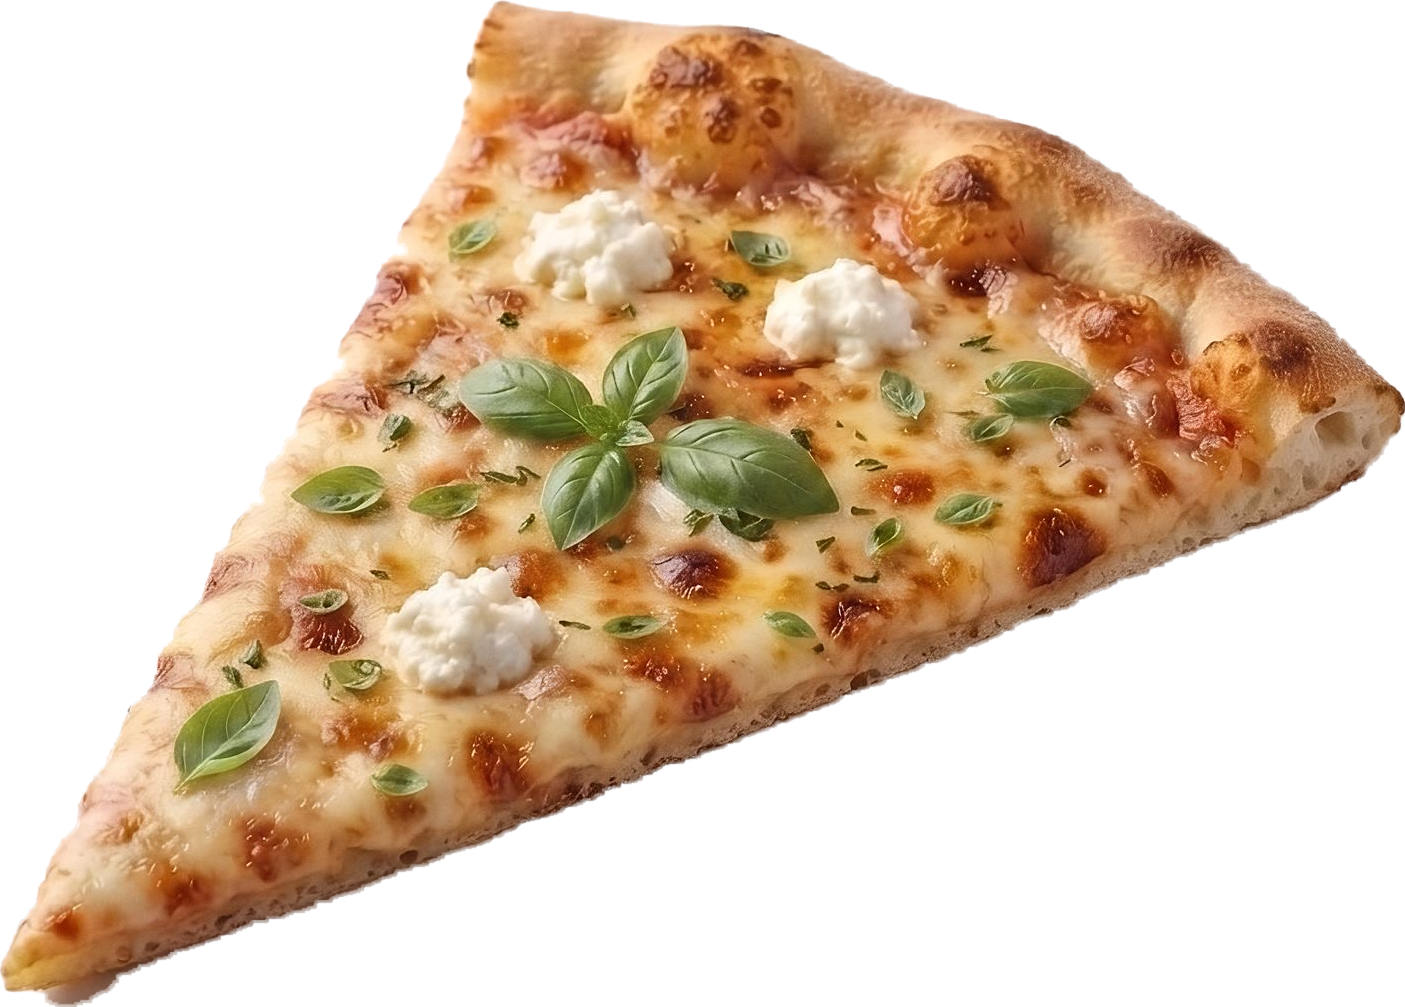
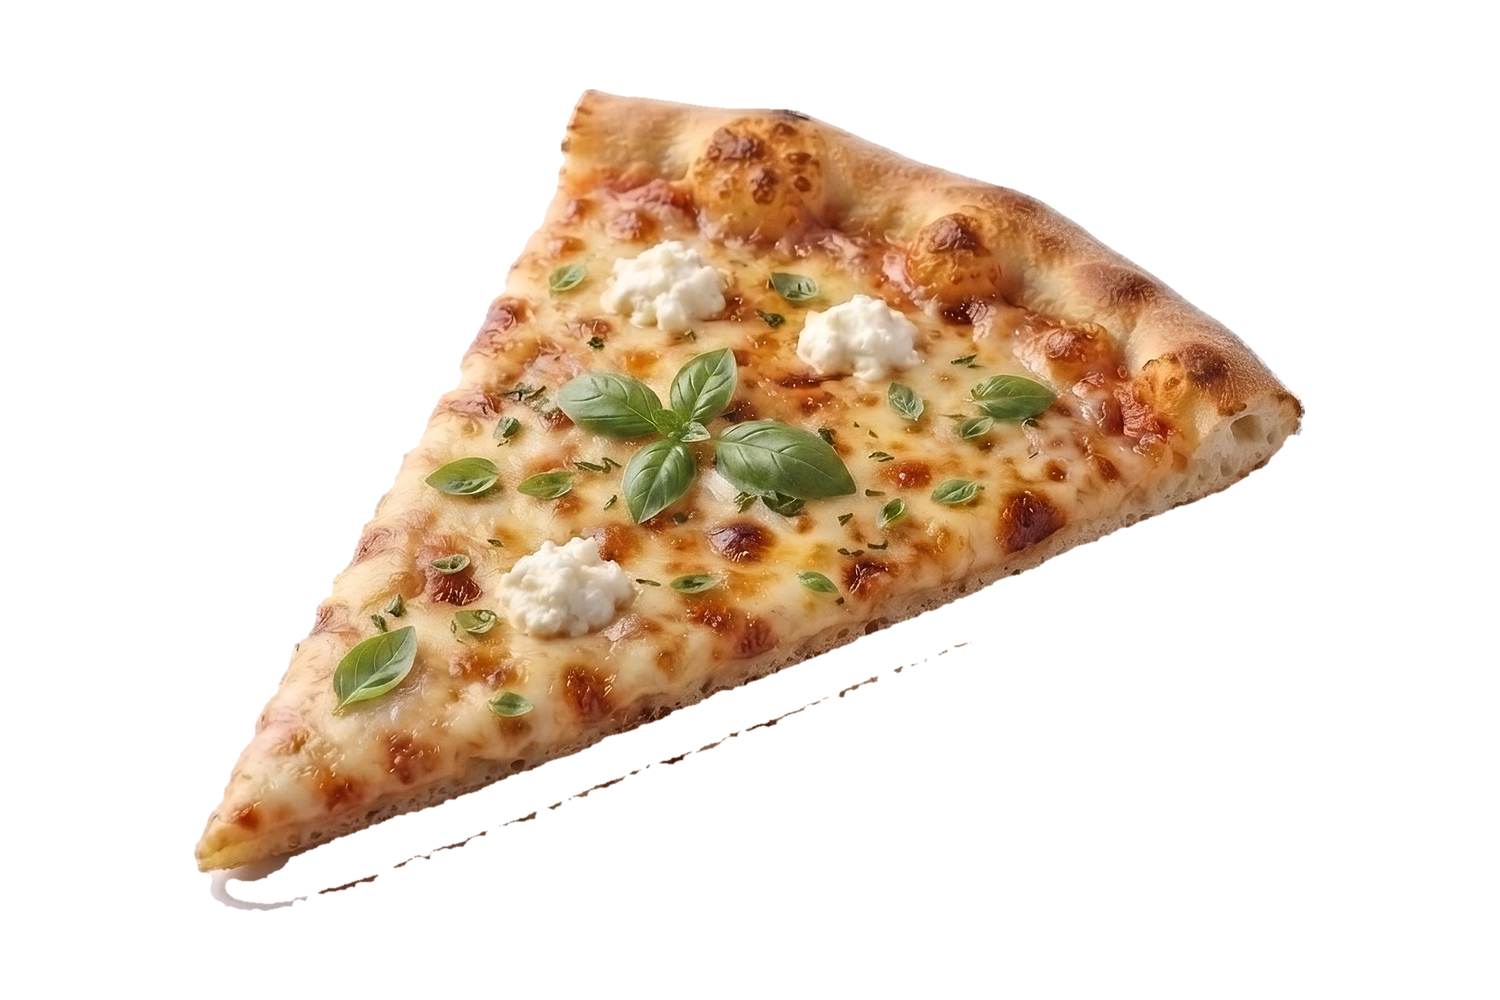
Stueckbilder neu freigestellt und vereinheitlicht
Die Stueckbilder wurden aus den Originalfotos neu aufgebaut, weil sie zuvor
unterschiedliche Seitenverhaeltnisse hatten (1,26 bis 1,60) und dadurch
unterschiedlich gross im Rahmen landeten. Die Sonderregel, die das ueber eine
Hoehenbegrenzung je Variante abfing, ist wieder entfernt — die
Einheitlichkeit liegt jetzt in den Dateien.

Freistellen: Der Weg ueber den Hintergrund scheiterte am Studioschatten. Er
ist neutral wie der Hintergrund, seine weiche Auslaufkante aber texturiert;
je nach Kriterium blieb er als grauer Saum stehen oder heller Kaese am
Slice-Rand wurde mit weggeschnitten. Deshalb wird jetzt die Pizza selbst
beschrieben statt der Hintergrund: sie ist entweder farbig (Kruste, Sauce,
Belag) oder hell UND texturiert (Kaese, Ricotta) — der Schatten ist beides
nicht. Gemessen liegt die lokale Standardabweichung des Hintergrunds bei 0,7,
die der Pizzaoberflaeche bei 15,6.

Kantenreinigung: Die Weichzeichnung der Maske machte Pixel ausserhalb der
Kontur halbtransparent, also Hintergrund und Schatten — daher der helle Saum.
Die weiche Kante sitzt jetzt auf echtem Pizzarand, und die Farbe der
Randpixel kommt aus sechs Pixel Tiefe, wo sicher Teig oder Belag liegt. Mit
der Farbe direkt vom Rand blieb der Saum bestehen: dort sind bereits
Mischpixel, gemessen 255,255,250. Kantensaettigung danach 39-61 statt 5-6,
Helligkeit 147-180 statt 251.

Einheitliche Leinwand: alle 20 auf 1500x1000, skaliert ueber die Flaeche der
[…]

diff --git a/js/main.js b/js/main.js
@@ -25,22 +25,17 @@ document.addEventListener("DOMContentLoaded", () => {
     detroit: initPizzaSelector({
       root: "pizzaSelector", prefix: "sel", data: MOTO_MENU, ratio: 0.62,
       startVariante: "whole",
-      /* maxHoehe: Anteil der Rahmenhoehe. 98 % ist der Normalfall — so fuellt
-         die ganze Pizza den Rahmen ueber die Breite. Fuer die Stuecke ist der
-         Wert so gewaehlt, dass ihre gerenderte Hoehe der ganzen Pizza
-         entspricht: 0.98 / 1.66 (Seitenverhaeltnis ganz) / 0.62 (Rahmen). */
       varianten: {
-        whole: { imgPrefix: "pizza-", ext: "png", maxHoehe: "98%", alt: "vollständige Detroit Style Pizza" },
-        slice: { imgPrefix: "slice-", ext: "png", maxHoehe: "95%", alt: "Detroit Style Pizza, ein Stück" },
+        whole: { imgPrefix: "pizza-", ext: "png", alt: "vollständige Detroit Style Pizza" },
+        slice: { imgPrefix: "slice-", ext: "png", alt: "Detroit Style Pizza, ein Stück" },
       },
     }),
     newyork: initPizzaSelector({
       root: "nySelector", prefix: "ny", data: MOTO_MENU, ratio: 0.72,
       startVariante: "whole",
-      /* 0.98 / 1.49 / 0.72 — dieselbe Rechnung mit den Werten dieses Karussells */
       varianten: {
-        whole: { imgPrefix: "pizza-ny-", ext: "png", maxHoehe: "98%", alt: "vollständige New York Style Pizza" },
-        slice: { imgPrefix: "slice-ny-", ext: "png", maxHoehe: "91%", alt: "New York Style Pizza, ein Stück" },
+        whole: { imgPrefix: "pizza-ny-", ext: "png", alt: "vollständige New York Style Pizza" },
+        slice: { imgPrefix: "slice-ny-", ext: "png", alt: "New York Style Pizza, ein Stück" },
       },
     }),
   };
@@ -160,15 +155,6 @@ function initPizzaSelector(cfg) {
      bleibt stehen. Das Rahmenverhaeltnis gehoert zum Karussell, nicht zur
      Variante, damit sich die Hoehe nie aendert. */
   let variante = cfg.varianten[cfg.startVariante];
-
-  /* Wie hoch ein Bild im Rahmen hoechstens werden darf. Die ganzen Pizzen
-     haben alle dasselbe Seitenverhaeltnis und fuellen den Rahmen ueber die
-     Breite; die Stueckbilder sind steiler und unterschiedlich geschnitten,
-     mit derselben Grenze wuerden sie hoeher ausfallen als eine ganze Pizza
-     und in die Nachbarn ragen. Der Wert je Variante deckelt genau das, ohne
-     etwas zu beschneiden oder zu verzerren — object-fit bleibt contain. */
-  const hoeheSetzen = () => root.style.setProperty("--bild-max-h", variante.maxHoehe);
-  hoeheSetzen();
 
   const bildPfad = (p) => `assets/images/${variante.imgPrefix}${p.id}.${variante.ext}`;
   const bildAlt = (p) => `${p.name} – ${variante.alt}`;
@@ -507,7 +493,6 @@ function initPizzaSelector(cfg) {
     setVariante(name) {
       if (!cfg.varianten[name] || cfg.varianten[name] === variante) return;
       variante = cfg.varianten[name];
-      hoeheSetzen();
       slideEls.forEach((el, trackIdx) => {
         const p = data[dataIndexOf(trackIdx)];
         const img = el.querySelector("img");

diff --git a/css/style.css b/css/style.css
@@ -936,9 +936,7 @@ body {
      stretch, just a small safety margin against the card edge. 98% rather
      than the old 92%: the margin only has to keep the drop-shadow off the
      card edge, and the reclaimed 6% goes straight into pizza size. */
-  /* die Hoehengrenze kommt je Variante aus js/main.js (--bild-max-h), damit
-     ein Stueck nie hoeher wird als eine ganze Pizza; 98 % ist der Rueckfall */
-  max-width: 98%; max-height: var(--bild-max-h, 98%);
+  max-width: 98%; max-height: 98%;
   width: auto; height: auto;
   object-fit: contain;
   filter: drop-shadow(0 20px 28px rgba(0, 0, 0, 0.25));
